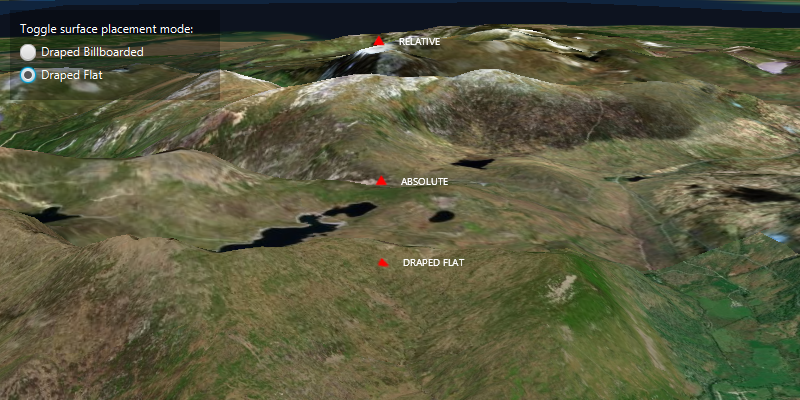
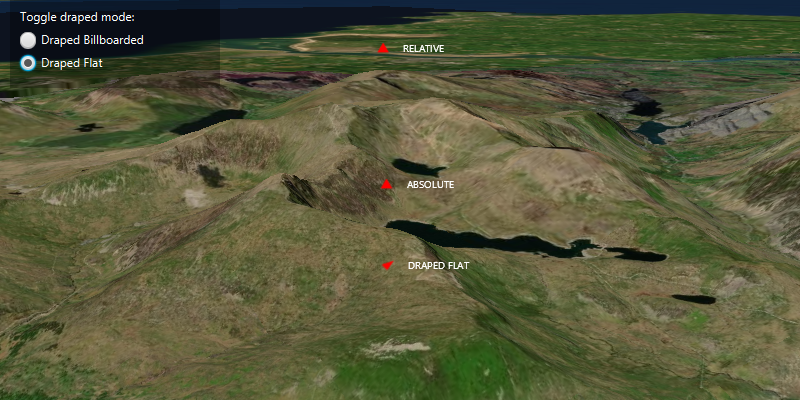
update camera, update screenshot

diff --git a/scene/surface-placement/src/main/java/com/esri/samples/surface_placement/SurfacePlacementSample.java b/scene/surface-placement/src/main/java/com/esri/samples/surface_placement/SurfacePlacementSample.java
@@ -80,7 +80,7 @@ public class SurfacePlacementSample extends Application {
       sceneView.setArcGISScene(scene);
 
       // add a camera and initial camera position
-      Camera camera = new Camera(53.04, -4.04, 1300, 0, 90.0, 0);
+      Camera camera = new Camera(53.05, -4.01, 1115, 299, 88, 0);
       sceneView.setViewpointCamera(camera);
 
       // add base surface for elevation data
